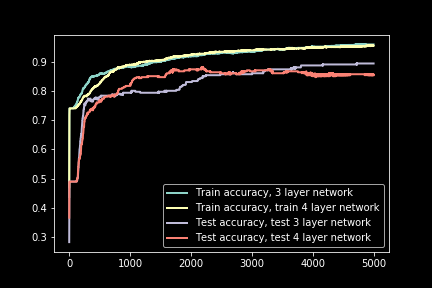
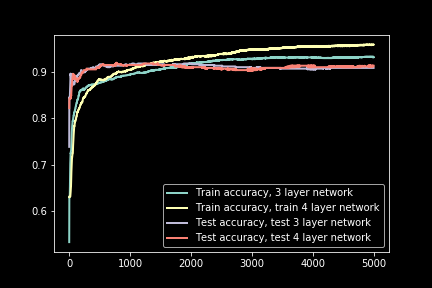
Add full data results

diff --git a/start_project_1a.py b/start_project_1a.py
@@ -198,8 +198,8 @@ trainY = np.zeros((train_Y.shape[0], NUM_CLASSES))
 trainY[np.arange(train_Y.shape[0]), train_Y-1] = 1 # one hot matrix
 
 # experiment with small datasets
-trainX = trainX[:1000]
-trainY = trainY[:1000]
+# trainX = trainX[:1000]
+# trainY = trainY[:1000]
 
 test_split_num = int(len(trainX) * test_split)
 train_x, test_x = trainX[:test_split_num], trainX[test_split_num:]
@@ -219,8 +219,8 @@ plot_acc('plots/part1_Q2a_2.png', train_acc, test_acc, [weight_decay_betas[2]], 
 plot_acc('plots/part1_Q2a_3.png', {}, test_acc, [weight_decay_betas[2]], [neuron_size[1]], batch_size)
 plot_acc('plots/part1_Q2a_4.png', train_acc, {}, [weight_decay_betas[2]], [neuron_size[1]], batch_size)
 #%%
-# Optimal batch size = 16
-optimal_batch_size = batch_size[2]
+# Optimal batch size = 8
+optimal_batch_size = batch_size[1]
 plot_acc('plots/part1_Q2c_optimal.png', train_acc, test_acc, [weight_decay_betas[2]], [neuron_size[1]], [optimal_batch_size])
 #%%
 # Q3, batch size 16, {5,10,15,20,25} hidden neurons
@@ -230,8 +230,8 @@ plot_acc('plots/part1_Q3a_1.png', train_acc, test_acc, [weight_decay_betas[2]], 
 plot_acc('plots/part1_Q3a_2.png', {}, test_acc, [weight_decay_betas[2]], neuron_size, [optimal_batch_size])
 plot_acc('plots/part1_Q3a_3.png', train_acc, {}, [weight_decay_betas[2]], neuron_size, [optimal_batch_size])
 #%%
-# Optimal neuron size = 5
-optimal_neuron_size = neuron_size[1]
+# Optimal neuron size = 20
+optimal_neuron_size = neuron_size[3]
 plot_acc('plots/part1_Q3c.png', train_acc, test_acc, [weight_decay_betas[2]], [optimal_neuron_size], [optimal_batch_size])
 #%%
 # Q4, batch size 16, 5 hidden neurons, decay parameters {0, 10e−3, 10e−6, 10e−9, 10e−12}
